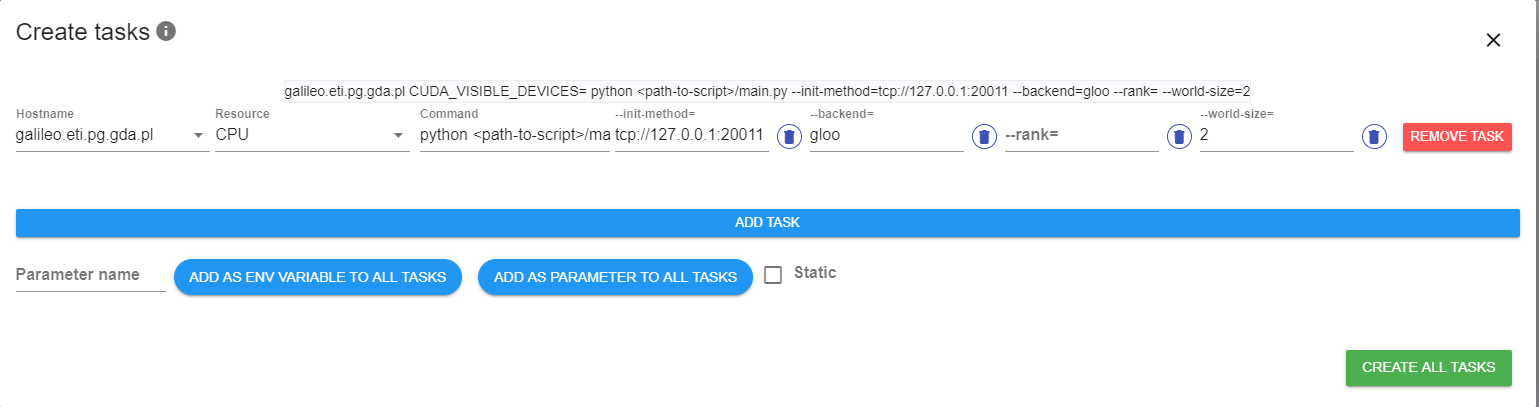
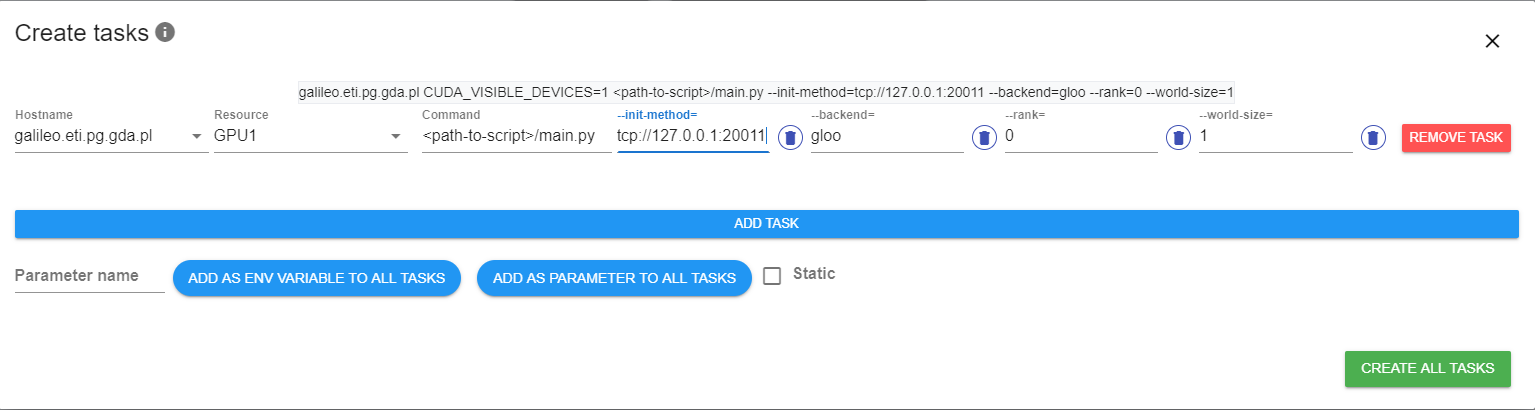
update patch and adjust to new templates

diff --git a/examples/PyTorch/README.md b/examples/PyTorch/README.md
@@ -17,12 +17,8 @@ and running
 python download.py -c bedroom
 ```
 
-For testing and/or benchmarking purposes it is also possible to the train the model on fake dataset. To do this run this command instead of the one given in the Usage section:
+For testing and/or benchmarking purposes it is also possible to the train the model on fake dataset. To do this, set the parameter `--dataset fake` when running the training program (ommit --dataroot parameter).
 
-```
-CUDA_VISIBLE_DEVICES=0 python main.py --init-method tcp://127.0.0.1:20011 --rank 0 --world 2 --dataset fake --cuda
-CUDA_VISIBLE_DEVICES=1 python main.py --init-method tcp://127.0.0.1:20011 --rank 1 --world 2 --dataset fake --cuda
-```
 
 ## Making the code parallel
 
@@ -57,8 +53,8 @@ export GLOO_SOCKET_IFNAME=eth0
 ```
 
 ```
-CUDA_VISIBLE_DEVICES=0 python main.py --init-method tcp://127.0.0.1:20011 --rank 0 --world 2 --dataset lsun --dataroot <path to lsun dataset> --cuda
-CUDA_VISIBLE_DEVICES=1 python main.py --init-method tcp://127.0.0.1:20011 --rank 1 --world 2 --dataset lsun --dataroot <path to lsun dataset> --cuda
+CUDA_VISIBLE_DEVICES=0 python main.py --init-method tcp://127.0.0.1:20011 --rank 0 --world-size 2 --dataset lsun --dataroot <path to lsun dataset> --cuda
+CUDA_VISIBLE_DEVICES=1 python main.py --init-method tcp://127.0.0.1:20011 --rank 1 --world-size 2 --dataset lsun --dataroot <path to lsun dataset> --cuda
 
 For more details about the usage refer to the [original repo](https://github.com/pytorch/examples/tree/master/dcgan)
 ```
@@ -72,11 +68,11 @@ Head to "Task Overview" (1) and click on "CREATE TASKS FROM TEMPLATE". Choose Py
 
 ![1](https://github.com/roscisz/TensorHive/tree/master/examples/PyTorch/img/1.png)
 
-Choose host and resource to run the task on for the first node. Under command specify path to your pyhon and script to wish to run (as shown). Specify init-method and world-size (number of nodes you wish to distribute the training between).
+Choose host and resource to run the task on for the first node. Under command specify path to your pyhon and script to wish to run (as shown). Specify init-method. You don't need to fill in rank or world-size parameters as tensorhive will do that automatically for you.
 
 ![2](https://github.com/roscisz/TensorHive/tree/master/examples/PyTorch/img/2.png)
 
-Add as many tasks as resources you wish the code to run on using "ADD TASK" button. You can see that every parameter filled is copied to newly created tasks to save time. Adjust Hostnames and resources on the added tasks as needed. And fill in the rank parameter starting from 0.
+Add as many tasks as resources you wish the code to run on using "ADD TASK" button. You can see that every parameter filled is copied to newly created tasks to save time. Adjust Hostnames and resources on the added tasks as needed.
 
 ![3](https://github.com/roscisz/TensorHive/tree/master/examples/PyTorch/img/3.png)
 
